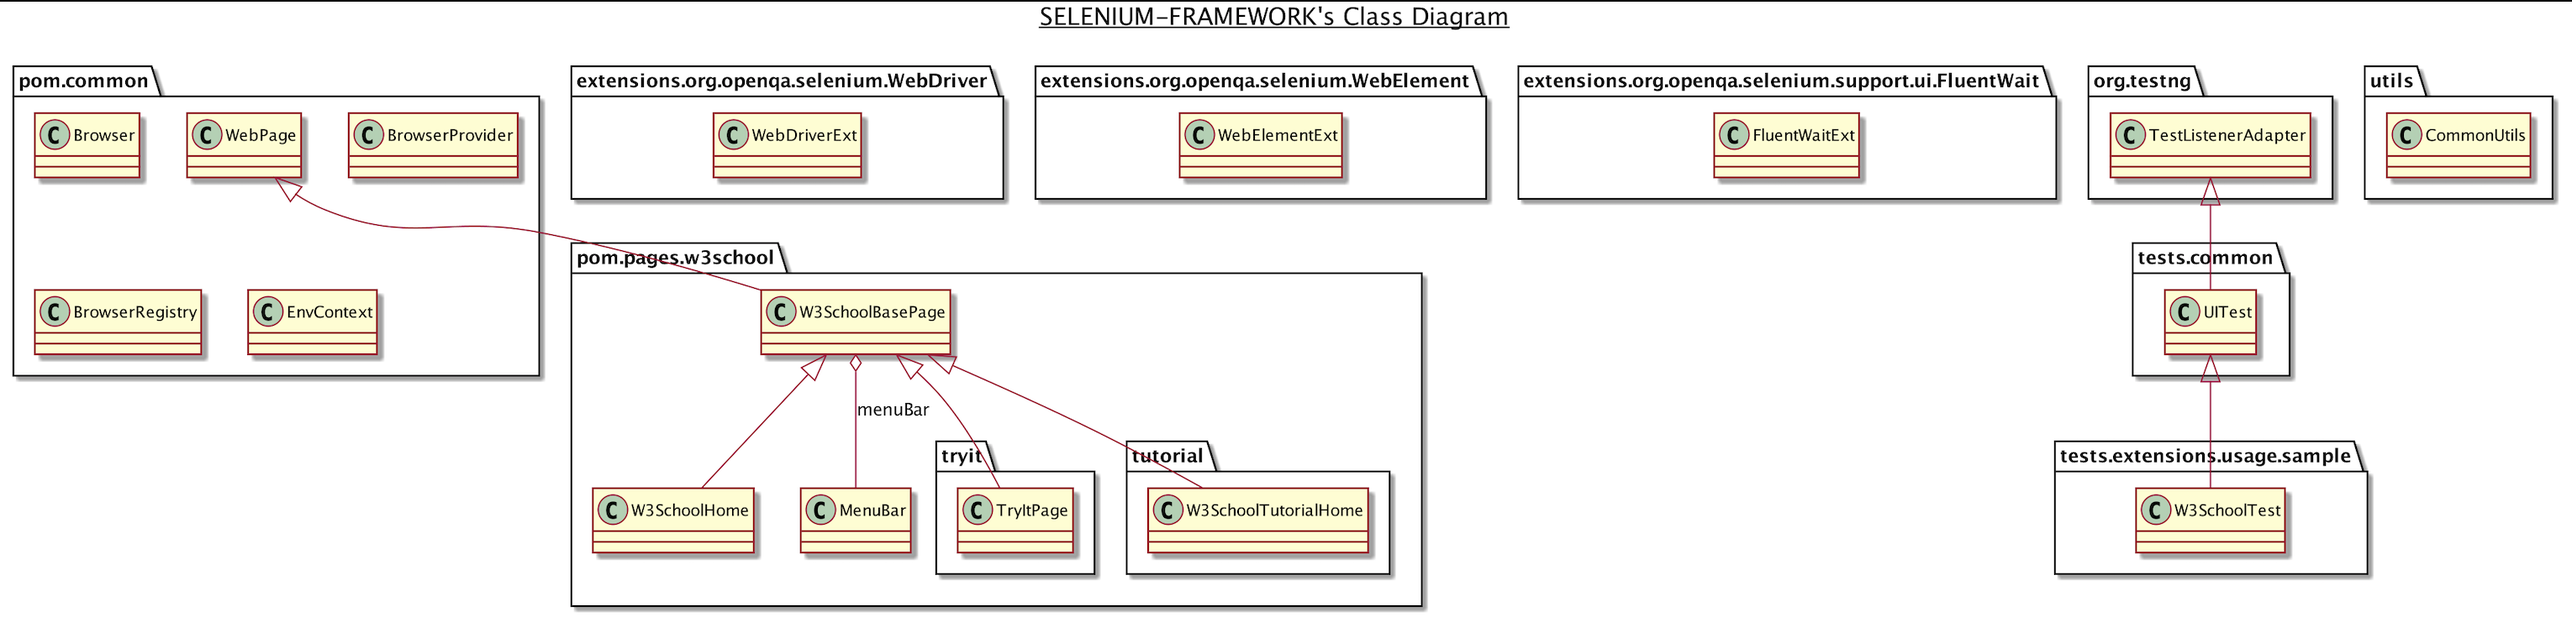
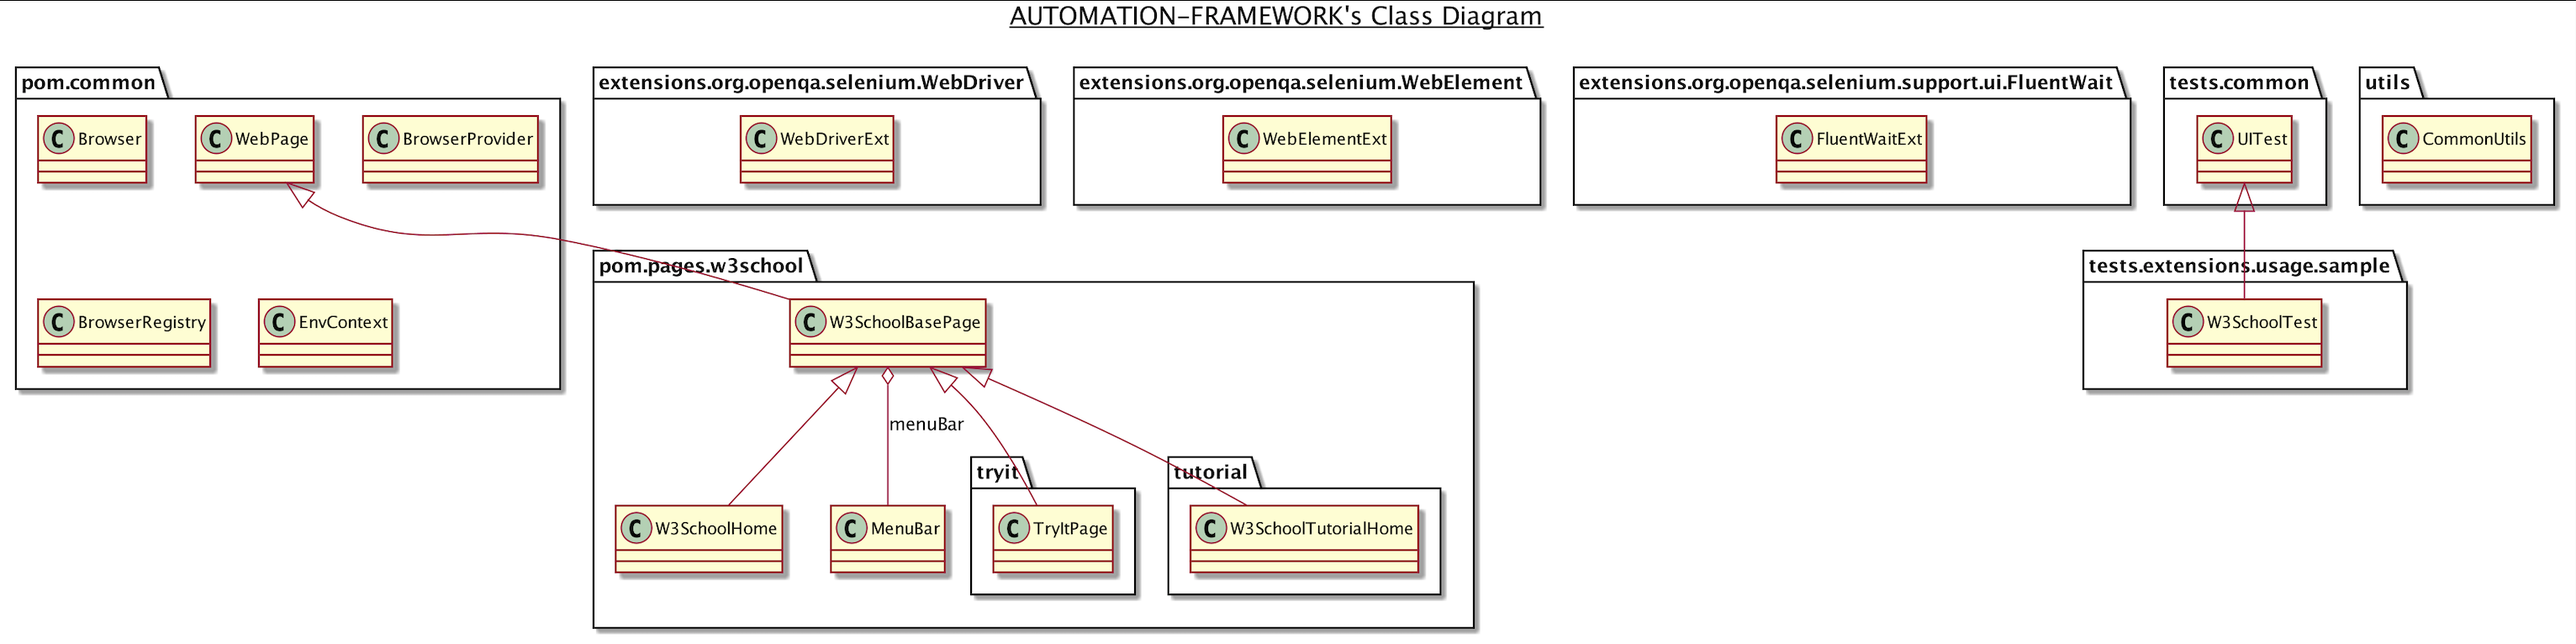
Integrated reporting framework

diff --git a/src/test/java/tests/extensions/usage/sample/W3SchoolTest.java b/src/test/java/tests/extensions/usage/sample/W3SchoolTest.java
@@ -1,16 +1,22 @@
 package tests.extensions.usage.sample;
 
+import io.qameta.allure.Description;
+import io.qameta.allure.Severity;
+import io.qameta.allure.SeverityLevel;
 import org.testng.Assert;
 import org.testng.annotations.Test;
+import org.testng.asserts.SoftAssert;
 import pom.pages.w3school.W3SchoolHome;
 import pom.pages.w3school.tryit.TryItPage;
 import tests.common.UITest;
 
 import java.util.Arrays;
 
+@Severity(SeverityLevel.CRITICAL)
 public class W3SchoolTest extends UITest {
 
-    @Test
+    @Description("Test alert interaction on w3school")
+    @Test(description = "TC-101 - Ability to handle alert on w3school")
     public void w3schoolAlertPage() {
         TryItPage alertPage = new TryItPage(TryItPage.Component.alert);
         alertPage.open();
@@ -18,16 +24,15 @@ public class W3SchoolTest extends UITest {
         W3SchoolHome w3SchoolHome = alertPage.clickOnW3SchoolHome();
         w3SchoolHome.clickOnLearnHtml();
         w3SchoolHome.menuBar.openMenu("Tutorials");
-        boolean result = w3SchoolHome.menuBar.menuListHasFollowingItems("HTML and CSS", Arrays.asList("Learn HTML", "Learn CSS", "Learn Bootstrap", "Learn W3.CSS", "Learn Colors", "Learn Icons", "Learn Graphics", "Learn SVG", "Learn Canvas", "Learn How To", "Learn Sass"));
-        Assert.assertEquals(result, true);
-        result = w3SchoolHome.menuBar.menuListHasFollowingItems("Programming", Arrays.asList("Learn Python", "Learn Java", "Learn C++", "Learn C#", "Learn R", "Learn Kotlin"));
-        Assert.assertEquals(result, true);
+        soft.assertEquals(w3SchoolHome.menuBar.getMenuListItem("HTML and CSS"), Arrays.asList("Learn HTML", "Learn CSS", "Learn Bootstrap", "Learn W3.CSS", "Learn Colors", "Learn Icons", "Learn Graphics", "Learn SVG", "Learn Canvas", "Learn How To", "Learn Sass"));
+        soft.assertEquals(w3SchoolHome.menuBar.getMenuListItem("Programming"), Arrays.asList("Learn Python", "Learn Java", "Learn C++", "Learn C#", "Learn R", "Learn Kotlin"));
         w3SchoolHome.close();
         alertPage.switchToTab();
+        soft.assertAll("Mismatch between expected and actual values");
     }
 
     @Test
-    public void w3schoolSelect(){
+    public void w3schoolSelect() {
         TryItPage selectPage = new TryItPage(TryItPage.Component.select);
         selectPage.open();
         selectPage.selectCar("Opel");

diff --git a/src/test/java/pom/common/BrowserProvider.java b/src/test/java/pom/common/BrowserProvider.java
@@ -2,18 +2,16 @@ package pom.common;
 
 import org.openqa.selenium.WebDriver;
 import org.openqa.selenium.chrome.ChromeDriver;
+import org.openqa.selenium.interactions.Actions;
+import org.openqa.selenium.safari.SafariDriver;
+import org.openqa.selenium.support.ui.FluentWait;
+import org.openqa.selenium.support.ui.WebDriverWait;
+import pom.common.EnvContext.BROWSER_TYPE;
 
 import java.time.Duration;
 import java.util.concurrent.TimeUnit;
 
-import static pom.common.EnvContext.browser_type;
 import static pom.common.EnvContext.wait_timeout;
-
-import org.openqa.selenium.interactions.Actions;
-import org.openqa.selenium.support.PageFactory;
-import org.openqa.selenium.support.ui.FluentWait;
-import org.openqa.selenium.support.ui.WebDriverWait;
-import pom.common.EnvContext.BROWSER_TYPE;
 
 public class BrowserProvider {
 
@@ -26,19 +24,21 @@ public class BrowserProvider {
     }
 
     public Browser getBrowser(){
-        Browser browser = BrowserRegistry.getCurrentRunningBrowser();
+        Browser browser = BrowserRegistry.getCurrentRunningBrowserFromRegistry();
         if(browser == null){
-            browser = newBrowser(browser_type);
-            BrowserRegistry.registerCurrentRunningBrowser(browser);
+            browser = newBrowser(EnvContext.browser_type);
         }
         return browser;
     }
 
-    private Browser newBrowser (BROWSER_TYPE browserType) {
+    public Browser newBrowser (BROWSER_TYPE browserType) {
         WebDriver driver;
         switch (browserType){
             case CHROME:
                 driver = new ChromeDriver();
+                break;
+            case SAFARI:
+                driver = new SafariDriver();
                 break;
             default:
                 throw new IllegalArgumentException(browserType.name()+" is not supported");
@@ -46,7 +46,9 @@ public class BrowserProvider {
         driver = configureBrowser(driver);
         FluentWait<WebDriver> wait = new WebDriverWait(driver, wait_timeout).pollingEvery(Duration.ofSeconds(1));
         Actions actions = new Actions(driver);
-        return new Browser(driver, wait, actions);
+        Browser browser = new Browser(driver, wait, actions);
+        BrowserRegistry.registerBrowserToRegistry(browser);
+        return browser;
     }
 
     private WebDriver configureBrowser(WebDriver driver) {

diff --git a/src/test/java/tests/common/UITest.java b/src/test/java/tests/common/UITest.java
@@ -1,20 +1,44 @@
 package tests.common;
 
+import io.qameta.allure.Allure;
+import org.openqa.selenium.OutputType;
+import org.openqa.selenium.TakesScreenshot;
 import org.openqa.selenium.WebDriver;
-import org.testng.TestListenerAdapter;
-import org.testng.annotations.AfterClass;
+import org.testng.ITestResult;
+import org.testng.annotations.*;
+import org.testng.asserts.SoftAssert;
 import pom.common.Browser;
 import pom.common.BrowserProvider;
-import pom.common.BrowserRegistry;
+import pom.common.EnvContext;
 
-public class UITest extends TestListenerAdapter
+import java.io.ByteArrayInputStream;
+
+public class UITest
 {
+    protected SoftAssert soft = new SoftAssert();
+
+    @Parameters("browser")
+    @BeforeClass
+    public void startTests(@Optional("SAFARI") String browser){
+        BrowserProvider.getInstance().newBrowser(EnvContext.BROWSER_TYPE.valueOf(browser));
+    }
+
+    @AfterMethod
+    public void afterMethod(ITestResult result)
+    {
+        if(result.getStatus() == ITestResult.FAILURE){
+            WebDriver driver = BrowserProvider.getInstance().getBrowser().getDriver();
+            Allure.addAttachment(result.getName(), new ByteArrayInputStream(((TakesScreenshot) driver).getScreenshotAs(OutputType.BYTES)));
+        }
+    }
+
     @AfterClass
-    protected void endTests() {
+    public void endTests() {
         String debug = System.getenv("debug");
         if (debug == null || !debug.equalsIgnoreCase("true")) {
             Browser browser = BrowserProvider.getInstance().getBrowser();
             browser.quit();
         }
     }
+
 }

diff --git a/src/test/java/extensions/org/openqa/selenium/WebElement/WebElementExt.java b/src/test/java/extensions/org/openqa/selenium/WebElement/WebElementExt.java
@@ -2,6 +2,7 @@ package extensions.org.openqa.selenium.WebElement;
 
 import manifold.ext.rt.api.Extension;
 import manifold.ext.rt.api.This;
+import org.openqa.selenium.InvalidElementStateException;
 import org.openqa.selenium.NoSuchElementException;
 import org.openqa.selenium.WebDriver;
 import org.openqa.selenium.WebElement;
@@ -12,7 +13,6 @@ import org.openqa.selenium.support.ui.Select;
 import org.testng.Assert;
 import pom.common.Browser;
 import pom.common.BrowserProvider;
-import pom.common.BrowserRegistry;
 import pom.common.EnvContext;
 import utils.CommonUtils;
 
@@ -60,12 +60,18 @@ public class WebElementExt {
         try { thiz.click(); }
         catch (NoSuchElementException exception) {  elmDoesNotExists = true; }
         finally { driver.manage().timeouts().implicitlyWait(EnvContext.wait_timeout, TimeUnit.SECONDS); }
-        Assert.assertEquals(elmDoesNotExists, true);
+        if(elmDoesNotExists != true)
+            throw new InvalidElementStateException("Expected "+thiz+" to be not present but it exists");
     }
 
     public static void rightClick(@This WebElement thiz){
         Browser browser = BrowserProvider.getInstance().getBrowser();
         WebDriver driver = browser.getDriver();
         new Actions(driver).contextClick(thiz).build().perform();
+    }
+
+    public static void click(@This WebElement thiz){
+        thiz.waitForElementToBeDisplayed();
+        thiz.click();
     }
 }

diff --git a/src/test/java/pom/pages/w3school/W3SchoolBasePage.java b/src/test/java/pom/pages/w3school/W3SchoolBasePage.java
@@ -31,7 +31,7 @@ public class W3SchoolBasePage extends WebPage
             openedMenuContainer.waitForElementToBeDisplayed();
         }
 
-        public boolean menuListHasFollowingItems(String listHeader, List<String> expectedMenuSubItems){
+        public List<String> getMenuListItem(String listHeader){
             String xpath = "//*[contains(@id,'nav_')][not(contains(@style,'display: none;'))]//*[contains(@class,'w3-content')]//*[contains(@class,'w3-col')]//h3[normalize-space(.)='"+listHeader+"']/ancestor::*[contains(@class,'w3-col')]/*[contains(@class,'w3-margin-top') or contains(@class, 'w3-bar-item')]";
             List<WebElement> colValues = driver.findElements(By.xpath(xpath));
             boolean isStartTagFound = false;
@@ -47,8 +47,7 @@ public class W3SchoolBasePage extends WebPage
                     actualMenuSubItems.add(colValue.getText());
                 }
             }
-            System.out.println("Expected = "+expectedMenuSubItems+" Actual = "+actualMenuSubItems);
-            return actualMenuSubItems.equals(expectedMenuSubItems);
+            return actualMenuSubItems;
         }
     }
 }

diff --git a/src/test/java/extensions/org/openqa/selenium/WebDriver/WebDriverExt.java b/src/test/java/extensions/org/openqa/selenium/WebDriver/WebDriverExt.java
@@ -25,7 +25,7 @@ public class WebDriverExt {
             }
         }
         if (foundDesiredTab == false) {
-            Assert.fail("Fail to switch to tab: " + tabName);
+            throw new NoSuchWindowException("Fail to switch to tab: " + tabName);
         }
     }
 
@@ -40,10 +40,10 @@ public class WebDriverExt {
     public static void acceptAlert(@This WebDriver thiz, String alertText) {
         Browser browser = BrowserProvider.getInstance().getBrowser();
         FluentWait<WebDriver> wait = browser.getWait();
-        wait.until(ExpectedConditions.alertIsPresent());
-        Alert w3schoolAlert = thiz.switchTo().alert();
+        Alert w3schoolAlert = wait.until(ExpectedConditions.alertIsPresent());
         Assert.assertTrue(w3schoolAlert.getText().contains(alertText));
         w3schoolAlert.accept();
+        wait.until(ExpectedConditions.not(ExpectedConditions.alertIsPresent()));
     }
 
     public static void executeScript(@This WebDriver thiz, String script, Object ... args){

diff --git a/src/test/java/pom/common/EnvContext.java b/src/test/java/pom/common/EnvContext.java
@@ -1,14 +1,15 @@
 package pom.common;
 
-import static pom.common.EnvContext.BROWSER_TYPE.CHROME;
+import static pom.common.EnvContext.BROWSER_TYPE.*;
 
 public class EnvContext {
     //TODO: Externalize settings to properties and read from it
-    public static final BROWSER_TYPE browser_type = CHROME;
+    public static final BROWSER_TYPE browser_type = SAFARI;
     public static final int wait_timeout = 10;
     public static final String baseUrl = "https://www.w3schools.com";
 
     public enum BROWSER_TYPE {
-        CHROME
+        CHROME,
+        SAFARI
     }
 }

diff --git a/src/test/java/pom/common/BrowserRegistry.java b/src/test/java/pom/common/BrowserRegistry.java
@@ -10,9 +10,9 @@ public class BrowserRegistry {
 
     static void removeBrowserFromRegistry() { registry.remove(Thread.currentThread()); }
 
-    static Browser getCurrentRunningBrowser(){ return registry.get(Thread.currentThread());}
+    static Browser getCurrentRunningBrowserFromRegistry(){ return registry.get(Thread.currentThread());}
 
-    static void registerCurrentRunningBrowser(Browser browser) {
+    static void registerBrowserToRegistry(Browser browser) {
         registry.put(Thread.currentThread(), browser);
     }
 }

diff --git a/src/test/java/pom/pages/w3school/tryit/TryItPage.java b/src/test/java/pom/pages/w3school/tryit/TryItPage.java
@@ -28,7 +28,9 @@ public class TryItPage extends W3SchoolBasePage {
     public W3SchoolHome clickOnW3SchoolHome() {
         w3SchoolHomeIcon.click();
         driver.switchToTab("W3Schools Online Web");
-        return new W3SchoolHome();
+        W3SchoolHome w3SchoolHome = new W3SchoolHome();
+        w3SchoolHome.waitForPageToOpen();
+        return w3SchoolHome;
     }
 
     public TryItPage tryOnAlertAndAcceptIt() {
